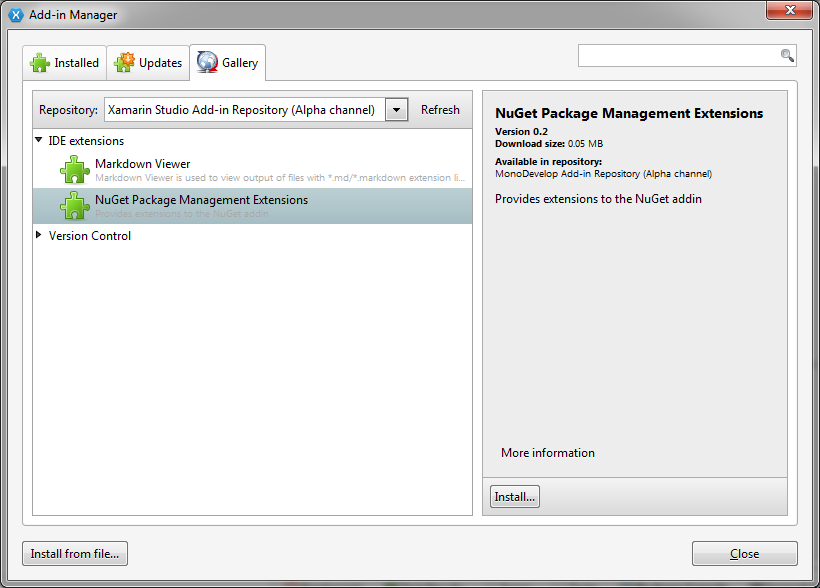
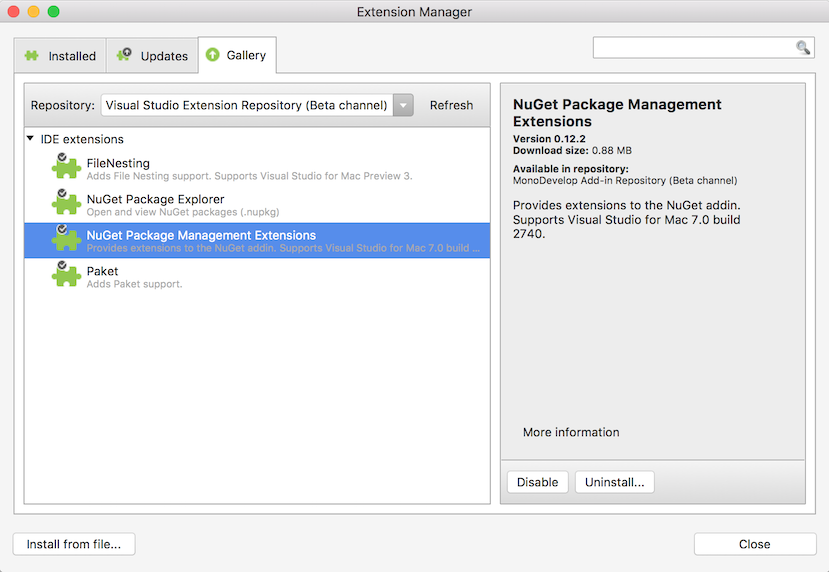
Update readme screenshots
Update some screenshots that are out of date such as the Manage
Packages dialog.

Changed region(s): [[0.0, 0.0, 1.0, 1.0]]

diff --git a/README.md b/README.md
@@ -23,7 +23,7 @@ The addin is available from the [MonoDevelop addin repository](http://addins.mon
 
  * Open the **Add-in Manager** dialog.
  * Select the **Gallery** tab.
- * Select **Xamarin Studio Add-in Repository (Alpha channel)** from  the drop down list.
+ * Select **Visual Studio Extension Repository (Beta channel)** from  the drop down list.
  * Expand **IDE extensions**.
  * Select **NuGet Package Management Extensions**.
  * Click the **Refresh** button if the addin is not visible.
@@ -57,7 +57,7 @@ To install a specific version of the package you can use the **-version** option
  
 The status bar will be updated as the install progresses. Errors will be displayed in the **Package Console**.
 
-The unified search is available at the top right of the main Xamarin Studio window.
+The unified search is available at the top right of the main IDE window.
 
 ## Package search category
 
@@ -87,7 +87,7 @@ This runs the [Mono Portable Class Library command line utility](https://github.
 
 ## Managing Packages for the Solution
 
-The NuGet addin that is available for Xamarin Studio 4 included the ability to manage packages for the solution. You could install, update or uninstall packages for multiple projects in one step. This feature is has been made available for Xamarin Studio 5 by the extension addin.
+The NuGet addin that is available for Xamarin Studio 4 included the ability to manage packages for the solution. You could install, update or uninstall packages for multiple projects in one step. This feature was removed in later versions but has been made available by the extension addin.
 
 To open the Manage Packages dialog:
 
@@ -99,8 +99,8 @@ To open the Manage Packages dialog:
 
 ### Install a package into multiple projects
 
- * Select the package in the **Available** tab.
- * Click the **Manage** button.
+ * Select the package in the **Browse** tab.
+ * Click the **Add Package** button.
 
 Then a Select Projects dialog will be displayed.
 
@@ -115,13 +115,13 @@ To uninstall a package from multiple projects:
  * Open the **Manage Packages** dialog.
  * Select the **Installed** tab.
  * Select the package you want to uninstall.
- * Click the **Manage** button.
+ * Click the **Remove Package** button.
  * Untick the projects you want the package to be uninstalled from.
  * Click **OK**.
 
 ## PowerShell Console Window
 
-Please make sure you have closed and re-opened Xamarin Studio after the addin has been installed before trying to open the PowerShell Console window otherwise Xamarin Studio will crash.
+Please make sure you have closed and re-opened IDE after the addin has been installed before trying to open the PowerShell Console window otherwise the IDE will crash.
 
 To open the console window, from the **View** menu select **Pads**, then select **Package Console Extension**.
 
